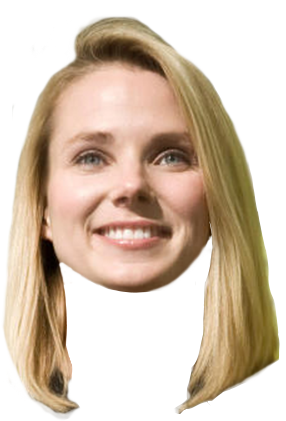
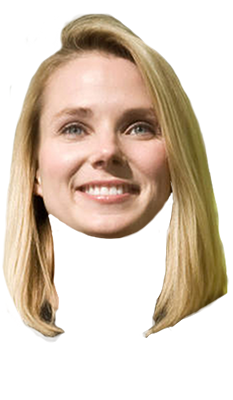
new photos

diff --git a/public/js/app.js b/public/js/app.js
@@ -1,18 +1,26 @@
 var canvas = document.getElementById('canvas');
 var context = canvas.getContext('2d');
+var upload_image; 
 
 var marissafy = function(coords) {
-    var almighty_marissa_face = new Image();
+
+    var almighty_marissa_face = new Image(),
+        marissa_faces = ['img/marissa_1.png', 'img/marissa_3.png', 'img/marissa_4.png','img/marissa_5.png', 'img/marissa_6.png'],
+        random_face = Math.floor(Math.random()*6);
+
     almighty_marissa_face.onload = function() {
-        context.drawImage(almighty_marissa_face, coords.x, coords.y, coords.width, coords.height);
+        context.drawImage(almighty_marissa_face, coords.x, (coords.y * .9), (coords.width * 1.25), (almighty_marissa_face.height*1.25));
     };
-    almighty_marissa_face.src = 'img/marissa_1.png';
+
+    console.log(random_face);
+    almighty_marissa_face.src = marissa_faces[random_face]; //'img/marissa_1.png';
 }
 
 $(document).ready(function() {
     $('#upload-form').ajaxForm(function(response) {
         if ( response && response !== '' ) {
             coords_array = JSON.parse(response);
+            context.drawImage(upload_image, 0, 0, canvas.width, canvas.height);
             for (var i = 0; i < coords_array.length; i++) {
                 marissafy(coords_array[i]);
             }
@@ -32,6 +40,7 @@ $(document).ready(function() {
             canvas.width = this.width / 2;
             canvas.height = this.height / 2;
             context.drawImage(this, 0, 0, canvas.width, canvas.height);
+            upload_image = this; 
         };
         image.src = image_location;
     });

diff --git a/public/index.html b/public/index.html
@@ -23,6 +23,7 @@
         <canvas id="canvas"></canvas>
     </div>
 
+    <!--
     <div id="box-wrap" class="block">
         <div id="box">
             <div class="top border"></div>
@@ -31,6 +32,7 @@
             <div class="right border"></div>
         </div>
     </div>
+-->
 
     <script type="text/javascript" src="js/lib/jquery.js"></script>
     <script type="text/javascript" src="js/lib/jquery-form.js"></script>
